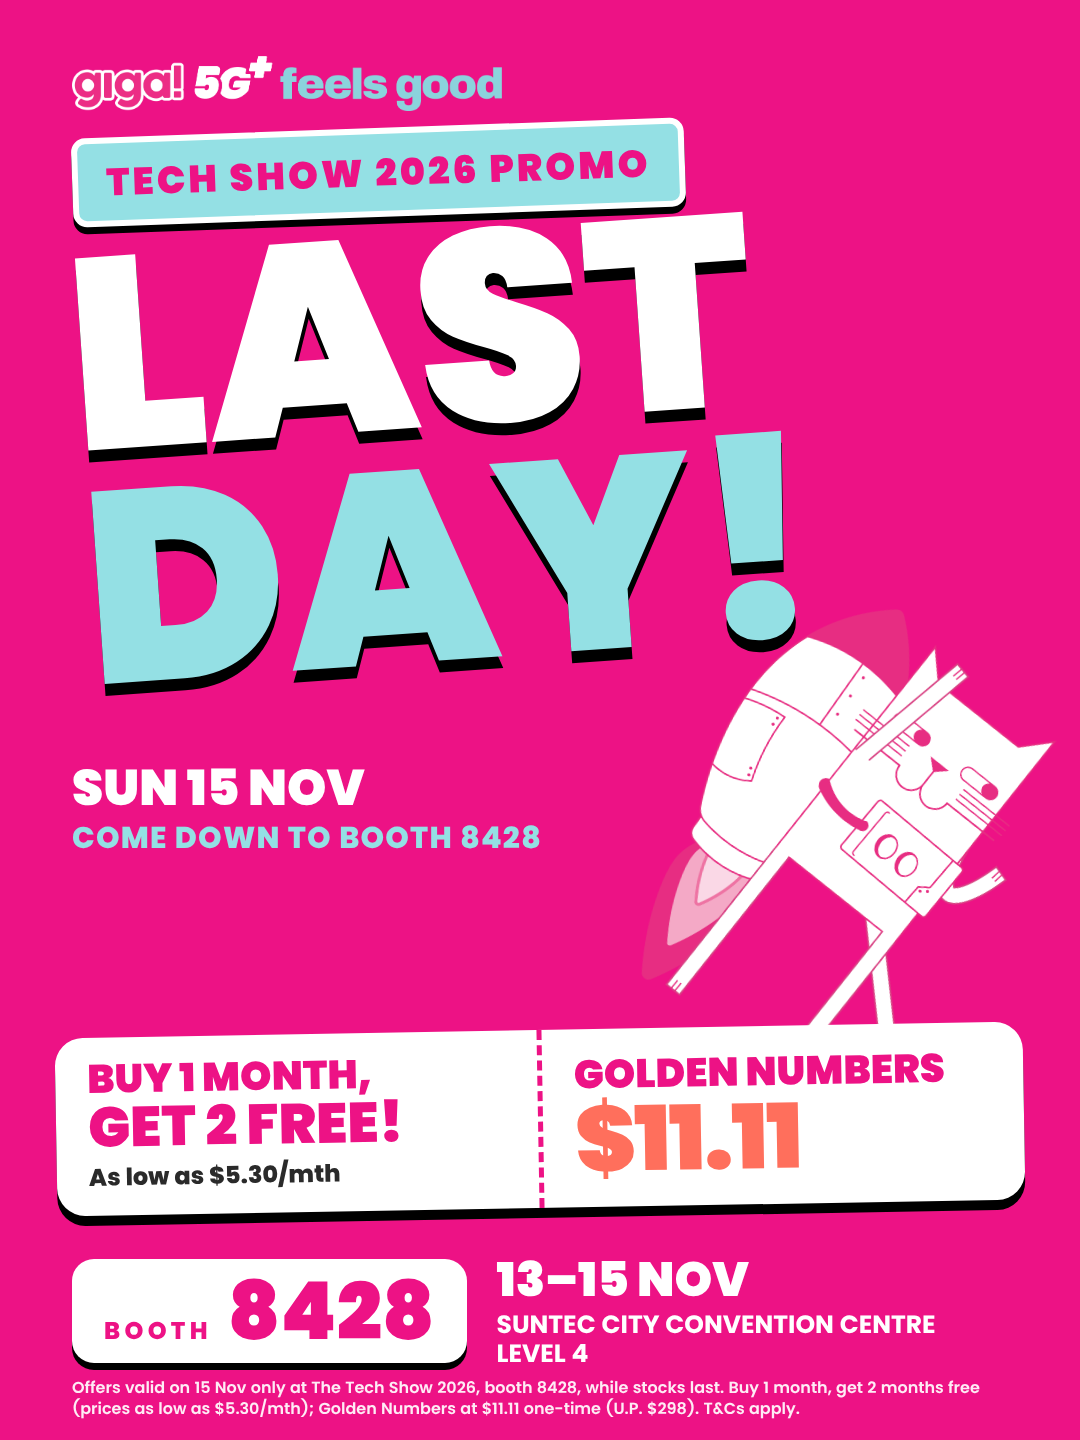
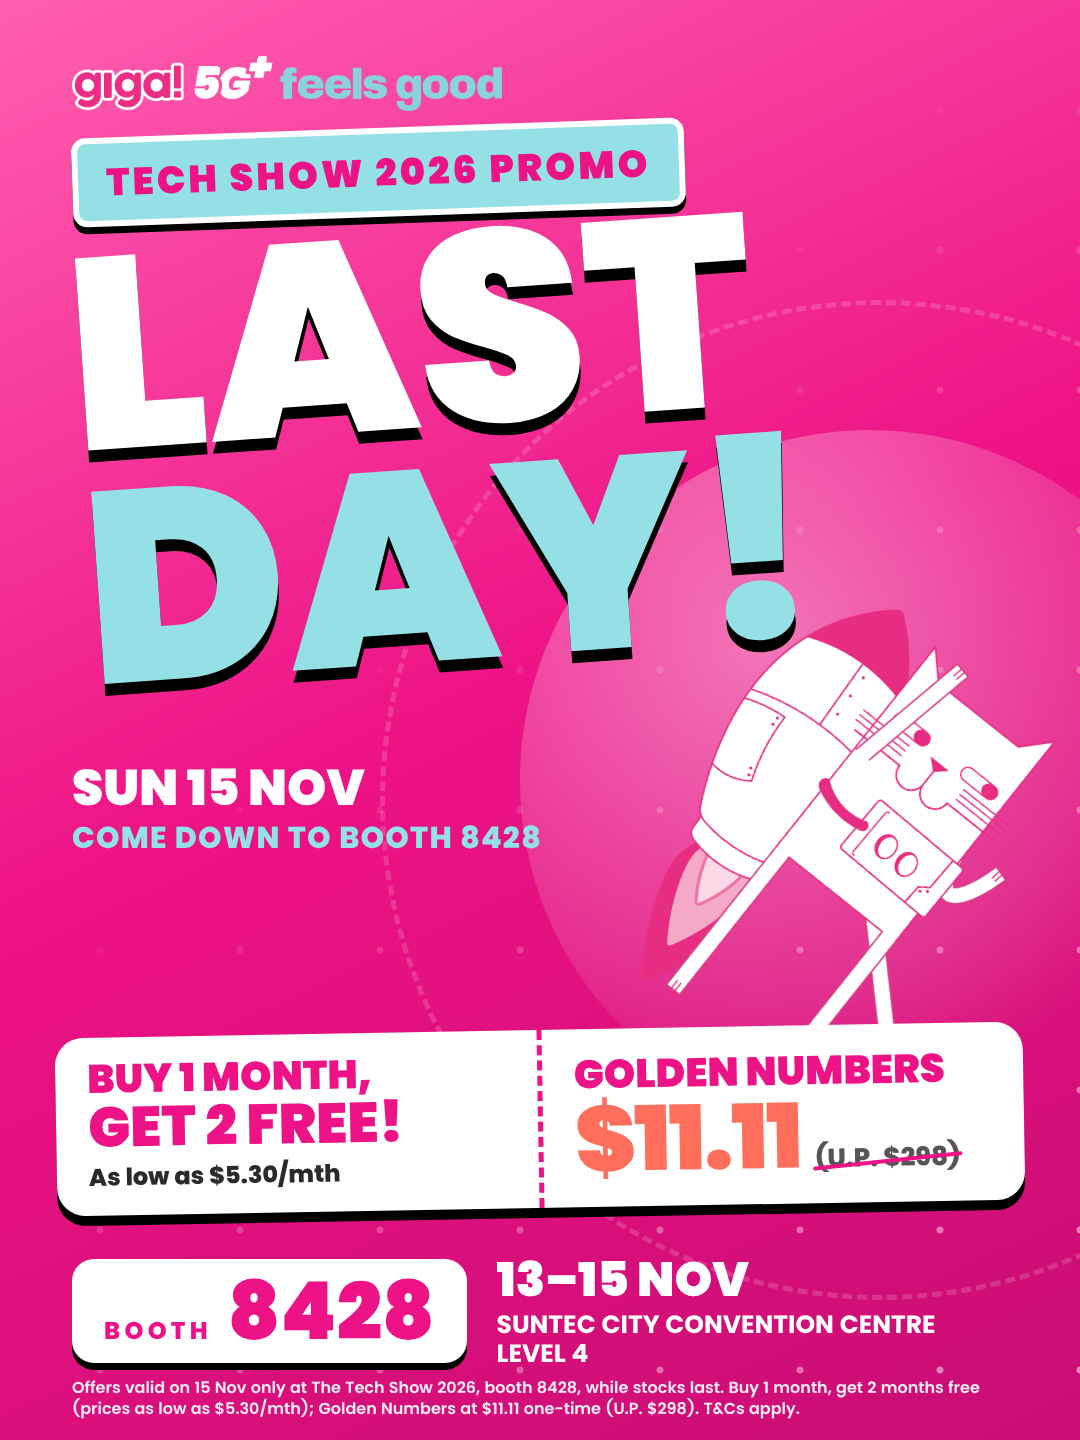
Post 6: U.P. price beside $11.11, layered moon/orbit/stars background
Claude-Session: https://claude.ai/code/session_01QpHBCYvf2HgUsT79rZy6ps

diff --git a/giga-tech-show/post-6-last-day.html b/giga-tech-show/post-6-last-day.html
@@ -14,15 +14,22 @@
 .offer6 .a b{display:block;font-size:56px}
 .offer6 .s{font-weight:800;font-size:24px;color:#2a2a2a;margin-top:4px}
 .offer6 .p{font-weight:900;font-size:92px;line-height:.95;color:var(--coral);letter-spacing:-.02em}
+.pr6{display:flex;align-items:baseline;gap:14px}
+.up6{position:relative;font-weight:800;font-size:26px;color:#555;white-space:nowrap}
+.up6:after{content:"";position:absolute;left:-3px;right:-3px;top:54%;height:4px;background:var(--pink);transform:rotate(-5deg);border-radius:2px}
+.bg6{position:absolute;inset:0;z-index:0;background:linear-gradient(155deg,#FF5FB0 0%,#ED1285 48%,#C90D74 100%)}
+.moon{position:absolute;left:520px;top:430px;width:700px;height:700px;border-radius:50%;z-index:1;background:radial-gradient(circle at 35% 30%,rgba(255,255,255,.42),rgba(255,255,255,.12) 55%,rgba(255,255,255,0) 72%)}
+.orbit{position:absolute;left:380px;top:300px;width:1000px;height:1000px;z-index:1;border-radius:50%;border:5px dashed rgba(255,255,255,.16);transform:rotate(-20deg)}
+.stars6{position:absolute;inset:0;z-index:1;background-image:radial-gradient(circle,rgba(255,255,255,.55) 0 3px,transparent 4px);background-size:140px 140px;background-position:30px 40px;-webkit-mask-image:linear-gradient(135deg,transparent 35%,#000 100%);mask-image:linear-gradient(135deg,transparent 35%,#000 100%)}
 </style></head>
 <body><div class="post" id="post" style="background:var(--pink)">
-
+<div class="bg6"></div><div class="moon"></div><div class="orbit"></div><div class="stars6"></div>
 <img class="logo" src="assets/logo-lockup-onpink.png" alt="giga! 5G+ feels good">
 <div class="chip6">TECH SHOW 2026 PROMO</div>
 <h1 class="h6"><span>Last</span><span><em>day!</em></span></h1>
 <div class="when6">Sun 15 Nov<span>COME DOWN TO BOOTH 8428</span></div>
 <img class="gino" src="assets/gino-rocket.png" style="left:665px;top:605px;width:370px;transform:rotate(10deg);z-index:5" alt="Gino rocket">
-<div class="offer6"><div><div class="a">BUY 1 MONTH,<b>GET 2 FREE!</b></div><div class="s">As low as $5.30/mth</div></div><div><div class="a">GOLDEN NUMBERS</div><div class="p">$11.11</div></div></div>
+<div class="offer6"><div><div class="a">BUY 1 MONTH,<b>GET 2 FREE!</b></div><div class="s">As low as $5.30/mth</div></div><div><div class="a">GOLDEN NUMBERS</div><div class="pr6"><span class="p">$11.11</span><span class="up6">(U.P. $298)</span></div></div></div>
 <div class="strip" style="top:1254px;left:72px"><div class="booth"><small>BOOTH</small><strong>8428</strong></div>
 <div class="when" style="color:var(--white)">13–15 Nov<span>Suntec City Convention Centre<br>Level 4</span></div></div>
 <div class="fine" style="color:rgba(255,255,255,.92)">Offers valid on 15 Nov only at The Tech Show 2026, booth 8428, while stocks last. Buy 1 month, get 2 months free (prices as low as $5.30/mth); Golden Numbers at $11.11 one-time (U.P. $298). T&amp;Cs apply.</div>

diff --git a/.claude/skills/giga-social-posts/tools/build_posts_v2.py b/.claude/skills/giga-social-posts/tools/build_posts_v2.py
@@ -159,10 +159,19 @@ b6=f'''
 <h1 class="h6"><span>Last</span><span><em>day!</em></span></h1>
 <div class="when6">Sun 15 Nov<span>COME DOWN TO BOOTH 8428</span></div>
 <img class="gino" src="assets/gino-rocket.png" style="left:665px;top:605px;width:370px;transform:rotate(10deg);z-index:5" alt="Gino rocket">
-<div class="offer6"><div><div class="a">BUY 1 MONTH,<b>GET 2 FREE!</b></div><div class="s">As low as $5.30/mth</div></div><div><div class="a">GOLDEN NUMBERS</div><div class="p">$11.11</div></div></div>
+<div class="offer6"><div><div class="a">BUY 1 MONTH,<b>GET 2 FREE!</b></div><div class="s">As low as $5.30/mth</div></div><div><div class="a">GOLDEN NUMBERS</div><div class="pr6"><span class="p">$11.11</span><span class="up6">(U.P. $298)</span></div></div></div>
 {strip('pink')}
 {fine('Offers valid on 15 Nov only at The Tech Show 2026, booth 8428, while stocks last. Buy 1 month, get 2 months free (prices as low as $5.30/mth); Golden Numbers at $11.11 one-time (U.P. $298). T&amp;Cs apply.')}'''
-OUT['post-6-last-day']=HEAD.format(t='Post 6: Last day',css=css6,bg='background:var(--pink)',body=b6)
+CSS6ADD=""".pr6{display:flex;align-items:baseline;gap:14px}
+.up6{position:relative;font-weight:800;font-size:26px;color:#555;white-space:nowrap}
+.up6:after{content:"";position:absolute;left:-3px;right:-3px;top:54%;height:4px;background:var(--pink);transform:rotate(-5deg);border-radius:2px}
+.bg6{position:absolute;inset:0;z-index:0;background:linear-gradient(155deg,#FF5FB0 0%,#ED1285 48%,#C90D74 100%)}
+.moon{position:absolute;left:520px;top:430px;width:700px;height:700px;border-radius:50%;z-index:1;background:radial-gradient(circle at 35% 30%,rgba(255,255,255,.42),rgba(255,255,255,.12) 55%,rgba(255,255,255,0) 72%)}
+.orbit{position:absolute;left:380px;top:300px;width:1000px;height:1000px;z-index:1;border-radius:50%;border:5px dashed rgba(255,255,255,.16);transform:rotate(-20deg)}
+.stars6{position:absolute;inset:0;z-index:1;background-image:radial-gradient(circle,rgba(255,255,255,.55) 0 3px,transparent 4px);background-size:140px 140px;background-position:30px 40px;-webkit-mask-image:linear-gradient(135deg,transparent 35%,#000 100%);mask-image:linear-gradient(135deg,transparent 35%,#000 100%)}
+"""
+b6='<div class="bg6"></div><div class="moon"></div><div class="orbit"></div><div class="stars6"></div>'+b6
+OUT['post-6-last-day']=HEAD.format(t='Post 6: Last day',css=css6+CSS6ADD,bg='background:var(--pink)',body=b6)
 
 for n,h in OUT.items(): open(f'{n}.html','w').write(h)
 print(list(OUT))

diff --git a/giga-tech-show/tools/build_posts_v2.py b/giga-tech-show/tools/build_posts_v2.py
@@ -159,10 +159,19 @@ b6=f'''
 <h1 class="h6"><span>Last</span><span><em>day!</em></span></h1>
 <div class="when6">Sun 15 Nov<span>COME DOWN TO BOOTH 8428</span></div>
 <img class="gino" src="assets/gino-rocket.png" style="left:665px;top:605px;width:370px;transform:rotate(10deg);z-index:5" alt="Gino rocket">
-<div class="offer6"><div><div class="a">BUY 1 MONTH,<b>GET 2 FREE!</b></div><div class="s">As low as $5.30/mth</div></div><div><div class="a">GOLDEN NUMBERS</div><div class="p">$11.11</div></div></div>
+<div class="offer6"><div><div class="a">BUY 1 MONTH,<b>GET 2 FREE!</b></div><div class="s">As low as $5.30/mth</div></div><div><div class="a">GOLDEN NUMBERS</div><div class="pr6"><span class="p">$11.11</span><span class="up6">(U.P. $298)</span></div></div></div>
 {strip('pink')}
 {fine('Offers valid on 15 Nov only at The Tech Show 2026, booth 8428, while stocks last. Buy 1 month, get 2 months free (prices as low as $5.30/mth); Golden Numbers at $11.11 one-time (U.P. $298). T&amp;Cs apply.')}'''
-OUT['post-6-last-day']=HEAD.format(t='Post 6: Last day',css=css6,bg='background:var(--pink)',body=b6)
+CSS6ADD=""".pr6{display:flex;align-items:baseline;gap:14px}
+.up6{position:relative;font-weight:800;font-size:26px;color:#555;white-space:nowrap}
+.up6:after{content:"";position:absolute;left:-3px;right:-3px;top:54%;height:4px;background:var(--pink);transform:rotate(-5deg);border-radius:2px}
+.bg6{position:absolute;inset:0;z-index:0;background:linear-gradient(155deg,#FF5FB0 0%,#ED1285 48%,#C90D74 100%)}
+.moon{position:absolute;left:520px;top:430px;width:700px;height:700px;border-radius:50%;z-index:1;background:radial-gradient(circle at 35% 30%,rgba(255,255,255,.42),rgba(255,255,255,.12) 55%,rgba(255,255,255,0) 72%)}
+.orbit{position:absolute;left:380px;top:300px;width:1000px;height:1000px;z-index:1;border-radius:50%;border:5px dashed rgba(255,255,255,.16);transform:rotate(-20deg)}
+.stars6{position:absolute;inset:0;z-index:1;background-image:radial-gradient(circle,rgba(255,255,255,.55) 0 3px,transparent 4px);background-size:140px 140px;background-position:30px 40px;-webkit-mask-image:linear-gradient(135deg,transparent 35%,#000 100%);mask-image:linear-gradient(135deg,transparent 35%,#000 100%)}
+"""
+b6='<div class="bg6"></div><div class="moon"></div><div class="orbit"></div><div class="stars6"></div>'+b6
+OUT['post-6-last-day']=HEAD.format(t='Post 6: Last day',css=css6+CSS6ADD,bg='background:var(--pink)',body=b6)
 
 for n,h in OUT.items(): open(f'{n}.html','w').write(h)
 print(list(OUT))
